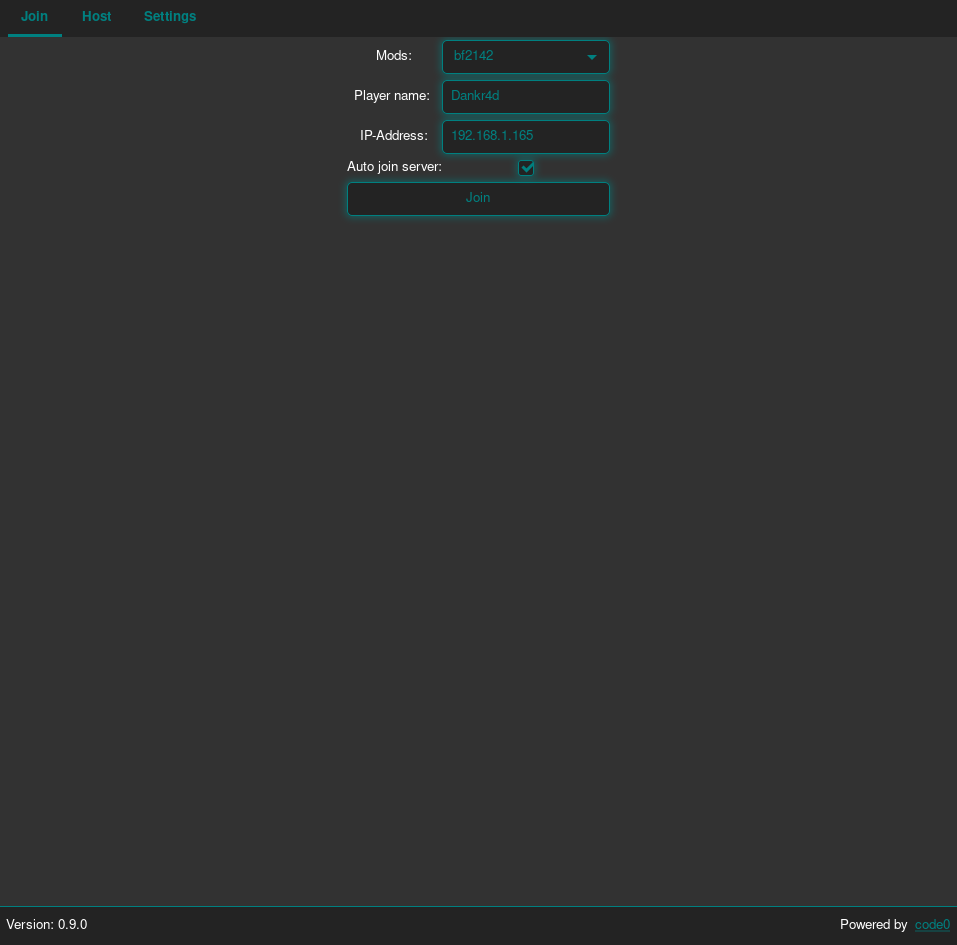
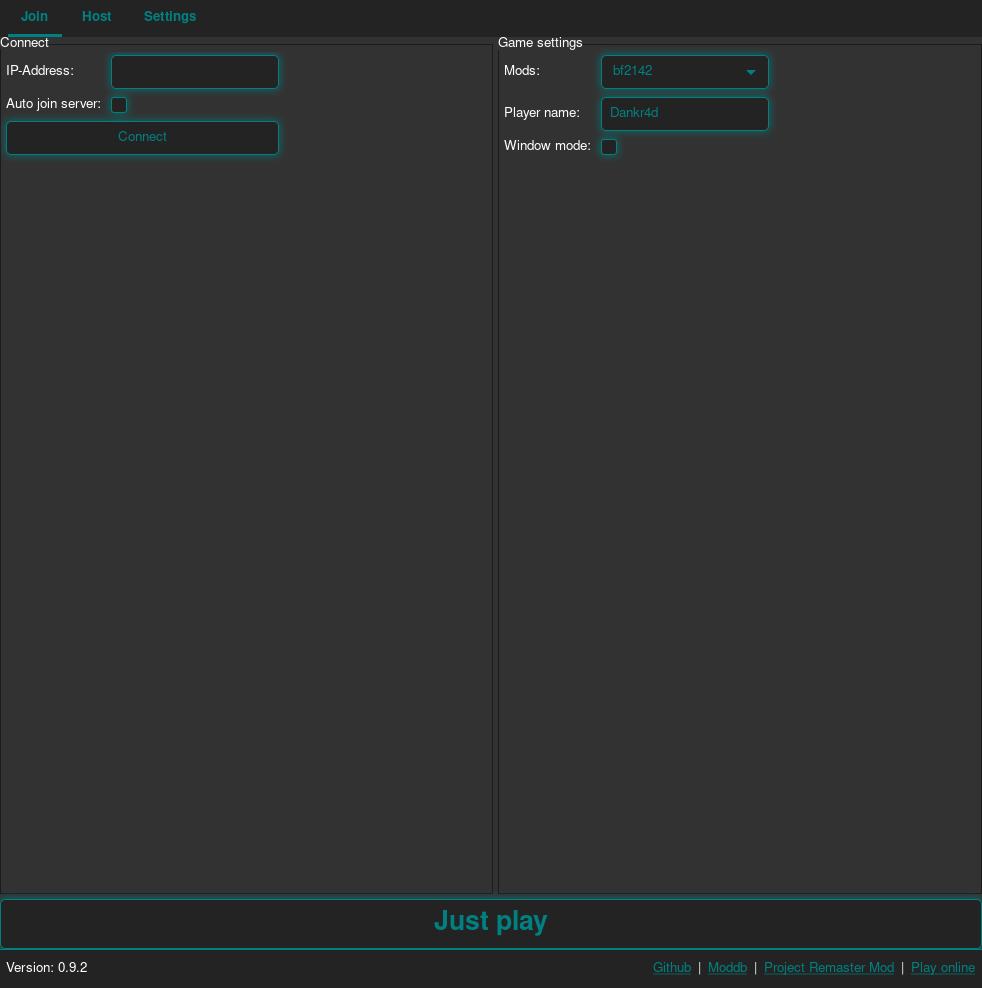
- Added new screenshots of release v0.9.2. - Updated readme for release v0.9.2.

diff --git a/readme.md b/readme.md
@@ -11,8 +11,8 @@ The unlocker gives you the abillity to add 64 coop maps (see below *"Optional re
 - Battlefield 2142 with the original executable.
 
 ## Downloads
-- [Download BF2142 Unlocker v0.9.1 (Windows)](https://github.com/Dankr4d/BF2142Unlocker/releases/download/v0.9.1/BF2142Unlocker_v0.9.1_win.zip)
-- [Download BF2142 Unlocker v0.9.1 (Linux)](https://github.com/Dankr4d/BF2142Unlocker/releases/download/v0.9.1/BF2142Unlocker_v0.9.1_linux.zip)
+- [Download BF2142 Unlocker v0.9.2 (Windows)](https://github.com/Dankr4d/BF2142Unlocker/releases/download/v0.9.2/BF2142Unlocker_v0.9.2_win.zip)
+- [Download BF2142 Unlocker v0.9.2 (Linux)](https://github.com/Dankr4d/BF2142Unlocker/releases/download/v0.9.2/BF2142Unlocker_v0.9.2_linux.zip)
 
 ## How to use:
 - Start the BF2142Unlocker:
@@ -26,15 +26,15 @@ The unlocker gives you the abillity to add 64 coop maps (see below *"Optional re
 - Goto "Join" tab and click on connect (IP address will be set after you launched the login/unlock server). Tell your friends the ip address to connect to.<br />
   *Info: localhost and ipv6 addresses are not supported. Also be carefull with the ip address you want to join. If BF2142 cannot connect to given ip address, BF2142 will stuck in a black screen.*
 - *Optional: You could also set the Battlefield 2142 Server path in "Settings" tab to configure server settings and start the game server in "Host" tab. To host login/unlock and game server, just click on "Host". If you want, you could enable "Auto join server" in "Join" tab to automatically join the game server.<br />
-  Info: This works well on windows. On linux you currently need to add the ncurses version 5 shared library to your game servers bin/amd-64/ path.*
+  Info: This works well on windows. On linux you currently need to add the ncurses version 5 shared library to your game servers bin/amd-64/ path. (libncurses.so.5 and libtinfo.so.5)*
 
 
 ## Screenshots (Linux version)
 ### GUI:
 |   |   |
 | - | - |
-| ![Host menu](screenshots/gui_host.png) | ![Join menu](screenshots/gui_join.png) |
-| ![Settings menu](screenshots/gui_settings.png) |
+| ![Host menu](screenshots/gui_host.png) | ![Settings menu](screenshots/gui_settings.png) |
+| ![Join menu](screenshots/gui_join.png) | ![Join menu just play](screenshots/gui_join_justplay.png) |
 ### Ingame:
 |   |   |
 | - | - |
